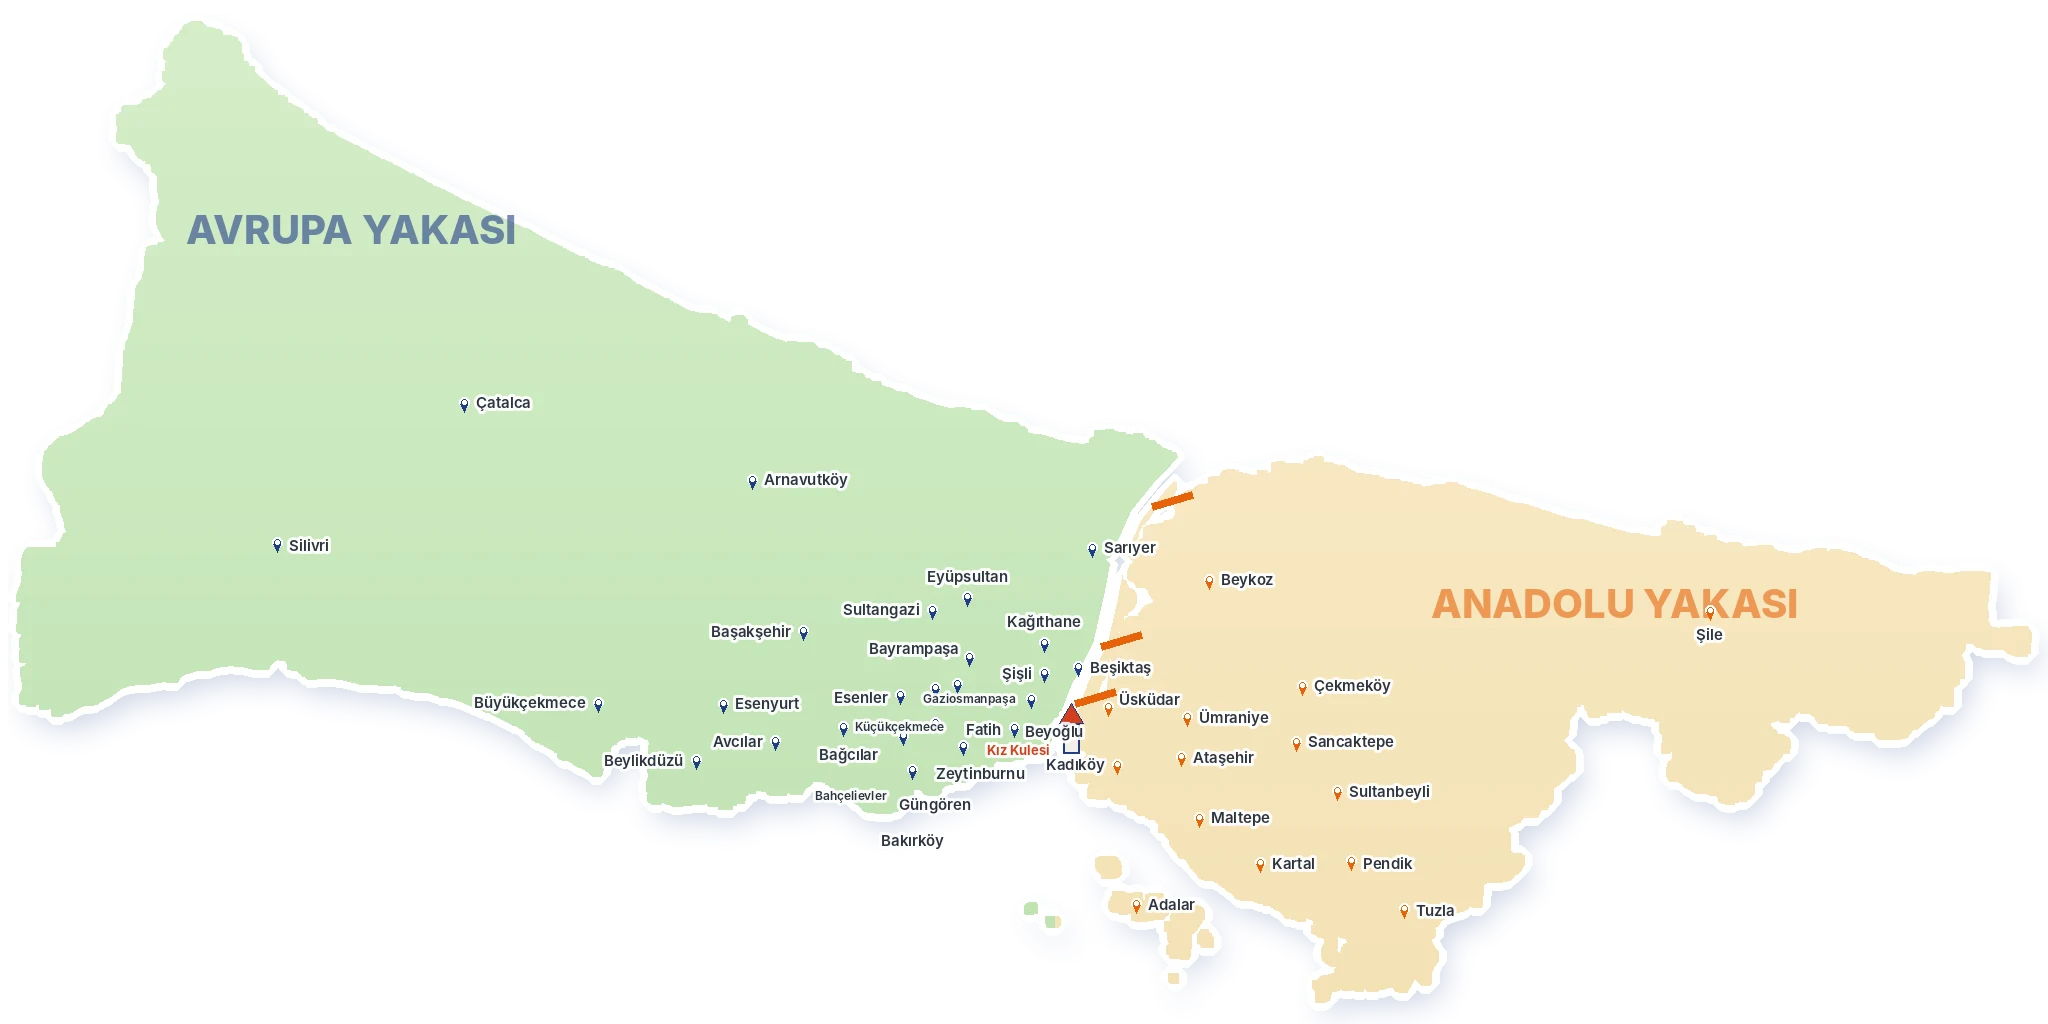
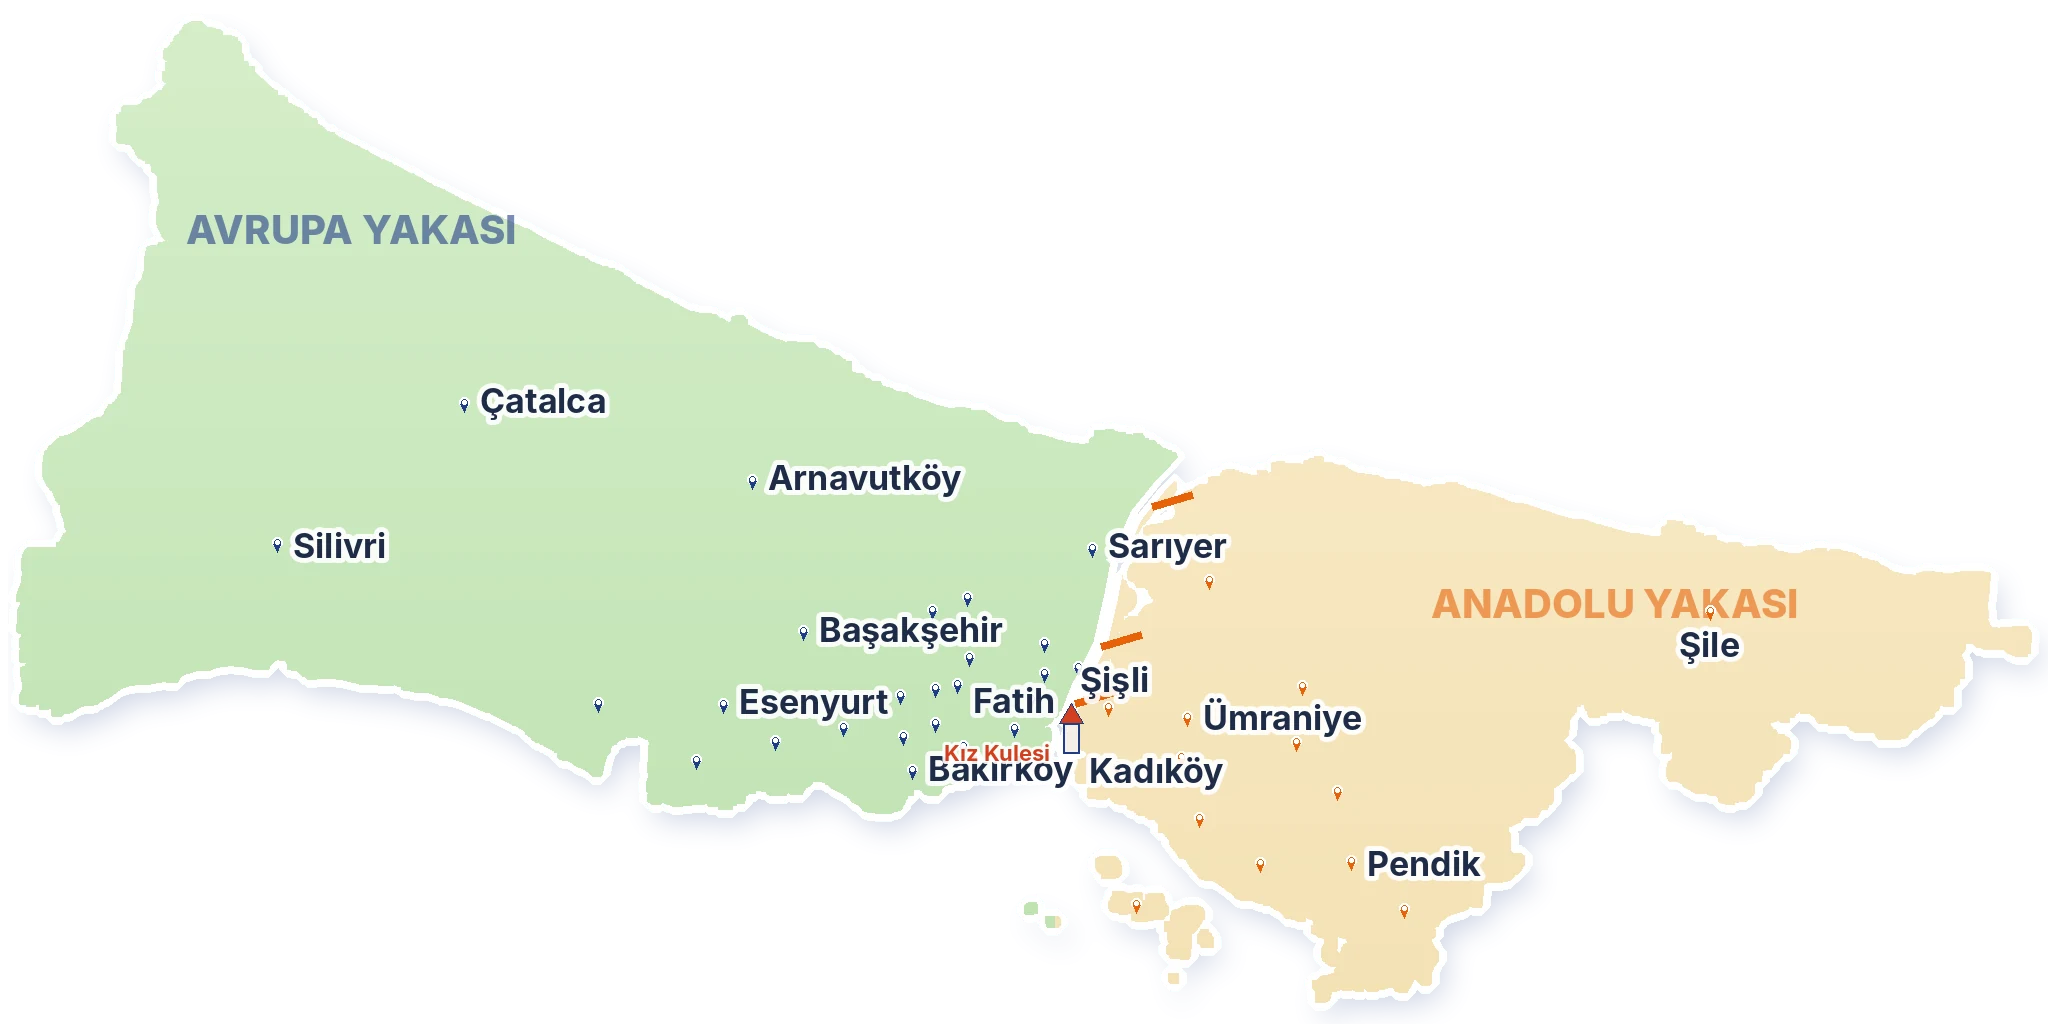
Ana ekran: kutucuklar iki yakaya dağılıp 8 ilçenin konum işaretine gidiyor; 14 ana ilçe adı büyük
Claude-Session: https://claude.ai/code/session_01DmkpUBmMrpxzYW5xoNeeop

diff --git a/ar/index.html b/ar/index.html
@@ -327,4 +327,4 @@
 <a href="https://wa.me/905515315234?text=%D9%85%D8%B1%D8%AD%D8%A8%D9%8B%D8%A7%D8%8C%20%D8%A3%D8%B1%D9%8A%D8%AF%20%D8%B7%D9%84%D8%A8%20%D9%85%D9%86%D8%AF%D9%88%D8%A8%20%D8%AA%D9%88%D8%B5%D9%8A%D9%84." target="_blank" rel="nofollow noopener" data-ev="whatsapp_bar"><svg viewBox="0 0 24 24" fill="none" stroke="currentColor" stroke-width="2" stroke-linecap="round" stroke-linejoin="round"><circle cx="12" cy="12" r="9"/><path d="M8 12l3 3 5-6"/></svg>اطلب مندوبًا</a>
 <a href="#hesapla"><svg viewBox="0 0 24 24" fill="none" stroke="currentColor" stroke-width="2" stroke-linecap="round" stroke-linejoin="round"><rect x="5" y="3" width="14" height="18" rx="2"/><path d="M9 8h6M9 12h2M13 12h2M9 16h2M13 16h2"/></svg>احسب السعر</a>
 <a href="tel:+905515315234" data-ev="call_bar"><svg viewBox="0 0 24 24" fill="none" stroke="currentColor" stroke-width="2" stroke-linecap="round" stroke-linejoin="round"><path d="M5 4h4l2 5-2.5 1.5a11 11 0 0 0 5 5L15 13l5 2v4a2 2 0 0 1-2 2A16 16 0 0 1 3 6a2 2 0 0 1 2-2z"/></svg>اتصل</a></nav>
-<button type="button" class="ecob" id="fxCalm" aria-pressed="false" aria-label="وضع توفير الطاقة" title="وضع توفير الطاقة"><span class="bt"><i></i><i></i><i></i></span><b>توفير</b></button><a class="fab" href="https://wa.me/905515315234?text=%D9%85%D8%B1%D8%AD%D8%A8%D9%8B%D8%A7%D8%8C%20%D8%A3%D8%B1%D9%8A%D8%AF%20%D8%B7%D9%84%D8%A8%20%D9%85%D9%86%D8%AF%D9%88%D8%A8%20%D8%AA%D9%88%D8%B5%D9%8A%D9%84." target="_blank" rel="nofollow noopener" aria-label="راسلنا على واتساب" data-ev="whatsapp_fab"><svg viewBox="0 0 24 24" fill="currentColor" aria-hidden="true"><path d="M12 2a10 10 0 0 0-8.6 15.1L2 22l5-1.3A10 10 0 1 0 12 2zm5.2 14.1c-.2.6-1.3 1.2-1.8 1.2-.5.1-1 .2-3.3-.7-2.8-1.1-4.6-4-4.7-4.2-.1-.2-1.1-1.5-1.1-2.8 0-1.3.7-1.9.9-2.2.2-.3.5-.3.7-.3h.5c.2 0 .4 0 .6.5l.8 2c.1.2.1.4 0 .5l-.4.6c-.1.2-.3.3-.1.6.2.3.8 1.3 1.7 2.1 1.2 1 2.100 1.300 2.400 1.500.3.1.5.1.6-.1l.9-1.100c.2-.2.4-.2.6-.1l1.900.9c.3.1.5.2.5.3.1.2.1.8-.1 1.400z"/></svg></a><a class="fab fabc" href="tel:+905515315234" aria-label="اتصل الآن" data-ev="call_fab"><svg viewBox="0 0 24 24" fill="none" stroke="currentColor" stroke-width="2" stroke-linecap="round" stroke-linejoin="round"><path d="M22 16.9v3a2 2 0 0 1-2.2 2 19.8 19.8 0 0 1-8.6-3.1 19.5 19.5 0 0 1-6-6A19.8 19.8 0 0 1 2.1 4.2 2 2 0 0 1 4.1 2h3a2 2 0 0 1 2 1.7c.1 1 .4 1.9.7 2.8a2 2 0 0 1-.5 2.1L8.1 9.9a16 16 0 0 0 6 6l1.3-1.3a2 2 0 0 1 2.1-.4c.9.3 1.8.6 2.8.7a2 2 0 0 1 1.7 2z"/></svg></a><script src="/assets/config.js?v=2517ce41" defer></script><script src="/assets/app.js?v=d55bec74" defer></script><script src="/assets/film.js?v=8a0c41d4" defer></script></body></html>
+<button type="button" class="ecob" id="fxCalm" aria-pressed="false" aria-label="وضع توفير الطاقة" title="وضع توفير الطاقة"><span class="bt"><i></i><i></i><i></i></span><b>توفير</b></button><a class="fab" href="https://wa.me/905515315234?text=%D9%85%D8%B1%D8%AD%D8%A8%D9%8B%D8%A7%D8%8C%20%D8%A3%D8%B1%D9%8A%D8%AF%20%D8%B7%D9%84%D8%A8%20%D9%85%D9%86%D8%AF%D9%88%D8%A8%20%D8%AA%D9%88%D8%B5%D9%8A%D9%84." target="_blank" rel="nofollow noopener" aria-label="راسلنا على واتساب" data-ev="whatsapp_fab"><svg viewBox="0 0 24 24" fill="currentColor" aria-hidden="true"><path d="M12 2a10 10 0 0 0-8.6 15.1L2 22l5-1.3A10 10 0 1 0 12 2zm5.2 14.1c-.2.6-1.3 1.2-1.8 1.2-.5.1-1 .2-3.3-.7-2.8-1.1-4.6-4-4.7-4.2-.1-.2-1.1-1.5-1.1-2.8 0-1.3.7-1.9.9-2.2.2-.3.5-.3.7-.3h.5c.2 0 .4 0 .6.5l.8 2c.1.2.1.4 0 .5l-.4.6c-.1.2-.3.3-.1.6.2.3.8 1.3 1.7 2.1 1.2 1 2.100 1.300 2.400 1.500.3.1.5.1.6-.1l.9-1.100c.2-.2.4-.2.6-.1l1.900.9c.3.1.5.2.5.3.1.2.1.8-.1 1.400z"/></svg></a><a class="fab fabc" href="tel:+905515315234" aria-label="اتصل الآن" data-ev="call_fab"><svg viewBox="0 0 24 24" fill="none" stroke="currentColor" stroke-width="2" stroke-linecap="round" stroke-linejoin="round"><path d="M22 16.9v3a2 2 0 0 1-2.2 2 19.8 19.8 0 0 1-8.6-3.1 19.5 19.5 0 0 1-6-6A19.8 19.8 0 0 1 2.1 4.2 2 2 0 0 1 4.1 2h3a2 2 0 0 1 2 1.7c.1 1 .4 1.9.7 2.8a2 2 0 0 1-.5 2.1L8.1 9.9a16 16 0 0 0 6 6l1.3-1.3a2 2 0 0 1 2.1-.4c.9.3 1.8.6 2.8.7a2 2 0 0 1 1.7 2z"/></svg></a><script src="/assets/config.js?v=2517ce41" defer></script><script src="/assets/app.js?v=d55bec74" defer></script><script src="/assets/film.js?v=9a4b680a" defer></script></body></html>

diff --git a/index.html b/index.html
@@ -330,4 +330,4 @@
 <a href="https://wa.me/905515315234?text=Merhaba%2C%20kurye%20%C3%A7a%C4%9F%C4%B1rmak%20istiyorum." target="_blank" rel="nofollow noopener" data-ev="whatsapp_bar"><svg viewBox="0 0 24 24" fill="none" stroke="currentColor" stroke-width="2" stroke-linecap="round" stroke-linejoin="round"><circle cx="12" cy="12" r="9"/><path d="M8 12l3 3 5-6"/></svg>Kurye Çağır</a>
 <a href="#hesapla"><svg viewBox="0 0 24 24" fill="none" stroke="currentColor" stroke-width="2" stroke-linecap="round" stroke-linejoin="round"><rect x="5" y="3" width="14" height="18" rx="2"/><path d="M9 8h6M9 12h2M13 12h2M9 16h2M13 16h2"/></svg>Fiyat Hesapla</a>
 <a href="tel:+905515315234" data-ev="call_bar"><svg viewBox="0 0 24 24" fill="none" stroke="currentColor" stroke-width="2" stroke-linecap="round" stroke-linejoin="round"><path d="M5 4h4l2 5-2.5 1.5a11 11 0 0 0 5 5L15 13l5 2v4a2 2 0 0 1-2 2A16 16 0 0 1 3 6a2 2 0 0 1 2-2z"/></svg>Ara</a></nav>
-<button type="button" class="ecob" id="fxCalm" aria-pressed="false" aria-label="Tasarruf modu" title="Tasarruf modu"><span class="bt"><i></i><i></i><i></i></span><b>Tasarruf</b></button><a class="fab" href="https://wa.me/905515315234?text=Merhaba%2C%20kurye%20%C3%A7a%C4%9F%C4%B1rmak%20istiyorum." target="_blank" rel="nofollow noopener" aria-label="WhatsApp ile yaz" data-ev="whatsapp_fab"><svg viewBox="0 0 24 24" fill="currentColor" aria-hidden="true"><path d="M12 2a10 10 0 0 0-8.6 15.1L2 22l5-1.3A10 10 0 1 0 12 2zm5.2 14.1c-.2.6-1.3 1.2-1.8 1.2-.5.1-1 .2-3.3-.7-2.8-1.1-4.6-4-4.7-4.2-.1-.2-1.1-1.5-1.1-2.8 0-1.3.7-1.9.9-2.2.2-.3.5-.3.7-.3h.5c.2 0 .4 0 .6.5l.8 2c.1.2.1.4 0 .5l-.4.6c-.1.2-.3.3-.1.6.2.3.8 1.3 1.7 2.1 1.2 1 2.100 1.300 2.400 1.500.3.1.5.1.6-.1l.9-1.100c.2-.2.4-.2.6-.1l1.900.9c.3.1.5.2.5.3.1.2.1.8-.1 1.400z"/></svg></a><a class="fab fabc" href="tel:+905515315234" aria-label="Hemen ara" data-ev="call_fab"><svg viewBox="0 0 24 24" fill="none" stroke="currentColor" stroke-width="2" stroke-linecap="round" stroke-linejoin="round"><path d="M22 16.9v3a2 2 0 0 1-2.2 2 19.8 19.8 0 0 1-8.6-3.1 19.5 19.5 0 0 1-6-6A19.8 19.8 0 0 1 2.1 4.2 2 2 0 0 1 4.1 2h3a2 2 0 0 1 2 1.7c.1 1 .4 1.9.7 2.8a2 2 0 0 1-.5 2.1L8.1 9.9a16 16 0 0 0 6 6l1.3-1.3a2 2 0 0 1 2.1-.4c.9.3 1.8.6 2.8.7a2 2 0 0 1 1.7 2z"/></svg></a><script src="/assets/config.js?v=2517ce41" defer></script><script src="/assets/app.js?v=d55bec74" defer></script><script src="/assets/film.js?v=8a0c41d4" defer></script><script src="/assets/ilcesec.js?v=34f25bab" defer></script><script src="/assets/nobet.js" defer></script><script src="/assets/zones.js?v=fbd403dd" defer></script></body></html>
+<button type="button" class="ecob" id="fxCalm" aria-pressed="false" aria-label="Tasarruf modu" title="Tasarruf modu"><span class="bt"><i></i><i></i><i></i></span><b>Tasarruf</b></button><a class="fab" href="https://wa.me/905515315234?text=Merhaba%2C%20kurye%20%C3%A7a%C4%9F%C4%B1rmak%20istiyorum." target="_blank" rel="nofollow noopener" aria-label="WhatsApp ile yaz" data-ev="whatsapp_fab"><svg viewBox="0 0 24 24" fill="currentColor" aria-hidden="true"><path d="M12 2a10 10 0 0 0-8.6 15.1L2 22l5-1.3A10 10 0 1 0 12 2zm5.2 14.1c-.2.6-1.3 1.2-1.8 1.2-.5.1-1 .2-3.3-.7-2.8-1.1-4.6-4-4.7-4.2-.1-.2-1.1-1.5-1.1-2.8 0-1.3.7-1.9.9-2.2.2-.3.5-.3.7-.3h.5c.2 0 .4 0 .6.5l.8 2c.1.2.1.4 0 .5l-.4.6c-.1.2-.3.3-.1.6.2.3.8 1.3 1.7 2.1 1.2 1 2.100 1.300 2.400 1.500.3.1.5.1.6-.1l.9-1.100c.2-.2.4-.2.6-.1l1.900.9c.3.1.5.2.5.3.1.2.1.8-.1 1.400z"/></svg></a><a class="fab fabc" href="tel:+905515315234" aria-label="Hemen ara" data-ev="call_fab"><svg viewBox="0 0 24 24" fill="none" stroke="currentColor" stroke-width="2" stroke-linecap="round" stroke-linejoin="round"><path d="M22 16.9v3a2 2 0 0 1-2.2 2 19.8 19.8 0 0 1-8.6-3.1 19.5 19.5 0 0 1-6-6A19.8 19.8 0 0 1 2.1 4.2 2 2 0 0 1 4.1 2h3a2 2 0 0 1 2 1.7c.1 1 .4 1.9.7 2.8a2 2 0 0 1-.5 2.1L8.1 9.9a16 16 0 0 0 6 6l1.3-1.3a2 2 0 0 1 2.1-.4c.9.3 1.8.6 2.8.7a2 2 0 0 1 1.7 2z"/></svg></a><script src="/assets/config.js?v=2517ce41" defer></script><script src="/assets/app.js?v=d55bec74" defer></script><script src="/assets/film.js?v=9a4b680a" defer></script><script src="/assets/ilcesec.js?v=34f25bab" defer></script><script src="/assets/nobet.js" defer></script><script src="/assets/zones.js?v=fbd403dd" defer></script></body></html>

diff --git a/assets/film.js b/assets/film.js
@@ -67,20 +67,25 @@ function build(s,cam,fx){
  world(s,'#8fd0f5','#eef8ff',false);
  // Sade İstanbul haritası (hazır görsel, sabit). 1 birim lon=35.6, lat=47; arena merkezi 28.66E/41.17N
  var GL0=27.9513956,GL1=29.978148,GB0=40.7827042,GB1=41.6050271,KO=17.5,KL=23.1,MW=(GL1-GL0)*KO,MH=(GB1-GB0)*KL;
- var ft=new T.TextureLoader().load('/assets/img/istanbul-sade.webp?v=2');ft.anisotropy=4;
+ var ft=new T.TextureLoader().load('/assets/img/istanbul-sade.webp?v=3');ft.anisotropy=4;
  var fl=new T.Mesh(new T.PlaneGeometry(MW,MH),new T.MeshBasicMaterial({map:ft,alphaTest:.5}));fl.rotation.x=-PI/2;fl.position.set(((GL0+GL1)/2-28.58)*KO,.01,-(((GB0+GB1)/2)-41.16)*KL);s.add(fl);
- var PA=[.5,2.1,3.7,5.3],PR=7,SZ=.4,pins=PA.map(function(a,i){var p=pin(i%2?NAVY:ORG);p.position.set(Math.cos(a)*PR,0,Math.sin(a)*PR*SZ);s.add(p);return p});
+ var HUB=V(7,0,1.8),BW=V(7.6,0,2.45),BE=V(8.4,0,2.5);
+ // 8 kutucuk 8 ilçeye: 4 Avrupa, 4 Anadolu (köprüden geçerek)
+ var TG=[V(-6.2,0,0),V(8.35,0,4.08),V(2.03,0,-1.2),V(12.4,0,5.87),V(2.92,0,1.59),V(18.6,0,1.22),V(4.8,0,4.19),V(9.56,0,3.2)],ANA=[0,1,0,1,0,1,0,1];
+ var PATHS=TG.map(function(g,i){return ANA[i]?[BW,BE,g]:[g]});
+ var pins=TG.map(function(g,i){var p=pin(ANA[i]?ORG:NAVY);p.position.copy(g);s.add(p);return p});
  // harfler + kırılan kutu panelleri + logo harf yüzleri
  var L=makeLetters(s),env=L.map(function(l){var e=envelope();l.userData.carry.add(e);return e});
  var GL=[],SH=[];L.forEach(function(l,i){var gm=new T.Mesh(new T.PlaneGeometry(1.25,1.56),new T.MeshBasicMaterial({map:glyphTex(WORD[i],i),transparent:true,depthWrite:false}));gm.visible=false;s.add(gm);GL.push(gm);
   var shards=[];var cm=M(LCOL[i],{roughness:.4,side:T.DoubleSide});[[0,0,.28,0],[0,0,-.28,PI],[.5,0,0,PI/2],[-.5,0,0,-PI/2],[0,.7,0,'t'],[0,-.7,0,'b']].forEach(function(f){var g=f[3]==='t'||f[3]==='b'?new T.PlaneGeometry(1,.55):(f[3]===0||f[3]===PI?new T.PlaneGeometry(1,1.4):new T.PlaneGeometry(.55,1.4));var m=new T.Mesh(g,cm);m.visible=false;s.add(m);shards.push({m:m,o:V(f[0],f[1],f[2]),r:f[3]})});SH.push(shards)});
- var pairs=[[0,3],[1,2],[4,5],[6,7]],start=L.map(function(l,i){var a=i/8*PI*2;return V(Math.cos(a)*2.6,0,Math.sin(a)*2.6*SZ)});
+ var start=L.map(function(l,i){var a=i/8*PI*2;return V(HUB.x+Math.cos(a)*1.3,0,HUB.z+Math.sin(a)*1.3)});
  var conf=confetti(s,V(0,1,3),10.9,160),conf2=confetti(s,V(0,2,3.2),12.7,180);
- function arenaPos(i,t){var p=pairs.findIndex(function(pr){return pr.indexOf(i)>=0}),side=pairs[p].indexOf(i),pa=PA[p],a0=i/8*PI*2;
-  if(t<1.2){var u=seg(t,.1+i*.05,1.1);return{p:arcV(V(0,0,0),start[i],u,2.2),f:faceTo(V(0,0,0),start[i]),run:0,bump:0}}
-  var u2=seg(t,1.4,7.4),ang=a0+(pa-a0)*u2,rad=2.6+(PR-1.1-2.6)*u2,bump=Math.exp(-Math.pow((u2-.5)/.06,2));
-  var off=(side?1:-1)*(.75-.6*bump);var pos=V(Math.cos(ang)*rad,0,Math.sin(ang)*rad).add(V(-Math.sin(ang),0,Math.cos(ang)).multiplyScalar(off));pos.y+=bump*.4;pos.z*=SZ;
-  return{p:pos,f:faceTo(pos,V(Math.cos(pa)*PR,0,Math.sin(pa)*PR*SZ)),run:u2<1?1:0,bump:bump*(side?-1:1)}}
+ function arenaPos(i,t){
+  if(t<1.2){var u=seg(t,.1+i*.05,1.1);return{p:arcV(HUB,start[i],u,2.2),f:faceTo(HUB,start[i]),run:0,bump:0}}
+  var pts=[start[i]].concat(PATHS[i]),ln=[],tot=0;for(var k=1;k<pts.length;k++){var d=pts[k].distanceTo(pts[k-1]);ln.push(d);tot+=d}
+  var u2=seg(t,1.4+i*.08,6.9+i*.06),e=u2*u2*(3-2*u2),dd=e*tot,j=0;while(j<ln.length-1&&dd>ln[j]){dd-=ln[j];j++}
+  var a0=pts[j],a1=pts[j+1],pos=a0.clone().lerp(a1,ln[j]?Math.min(1,dd/ln[j]):1);
+  return{p:pos,f:faceTo(a0,a1),run:u2>0&&u2<1?1:0,bump:0}}
  return function(t){
   L.forEach(function(l,i){var ud=l.userData;l.visible=t<12.7;ud.body.visible=true;l.scale.setScalar(1);sit(l,false);ud.body.rotation.z=0;cheer(l,t,0);ud.arms.forEach(function(g){g.visible=true});
    if(t<8.6){var A=arenaPos(i,t);l.position.copy(A.p);l.rotation.y=A.f;run(l,t,A.run);ud.body.rotation.z=A.bump*.35;env[i].visible=t<7.5;if(t>7.4){cheer(l,t,1);l.position.y=Math.abs(Math.sin((t-7.4)*PI*2))*.45}}

diff --git a/en/index.html b/en/index.html
@@ -327,4 +327,4 @@
 <a href="https://wa.me/905515315234?text=Hello%2C%20I%20would%20like%20to%20call%20a%20courier." target="_blank" rel="nofollow noopener" data-ev="whatsapp_bar"><svg viewBox="0 0 24 24" fill="none" stroke="currentColor" stroke-width="2" stroke-linecap="round" stroke-linejoin="round"><circle cx="12" cy="12" r="9"/><path d="M8 12l3 3 5-6"/></svg>Call a courier</a>
 <a href="#hesapla"><svg viewBox="0 0 24 24" fill="none" stroke="currentColor" stroke-width="2" stroke-linecap="round" stroke-linejoin="round"><rect x="5" y="3" width="14" height="18" rx="2"/><path d="M9 8h6M9 12h2M13 12h2M9 16h2M13 16h2"/></svg>Calculate price</a>
 <a href="tel:+905515315234" data-ev="call_bar"><svg viewBox="0 0 24 24" fill="none" stroke="currentColor" stroke-width="2" stroke-linecap="round" stroke-linejoin="round"><path d="M5 4h4l2 5-2.5 1.5a11 11 0 0 0 5 5L15 13l5 2v4a2 2 0 0 1-2 2A16 16 0 0 1 3 6a2 2 0 0 1 2-2z"/></svg>Call</a></nav>
-<button type="button" class="ecob" id="fxCalm" aria-pressed="false" aria-label="Power saving mode" title="Power saving mode"><span class="bt"><i></i><i></i><i></i></span><b>Saver</b></button><a class="fab" href="https://wa.me/905515315234?text=Hello%2C%20I%20would%20like%20to%20call%20a%20courier." target="_blank" rel="nofollow noopener" aria-label="Write on WhatsApp" data-ev="whatsapp_fab"><svg viewBox="0 0 24 24" fill="currentColor" aria-hidden="true"><path d="M12 2a10 10 0 0 0-8.6 15.1L2 22l5-1.3A10 10 0 1 0 12 2zm5.2 14.1c-.2.6-1.3 1.2-1.8 1.2-.5.1-1 .2-3.3-.7-2.8-1.1-4.6-4-4.7-4.2-.1-.2-1.1-1.5-1.1-2.8 0-1.3.7-1.9.9-2.2.2-.3.5-.3.7-.3h.5c.2 0 .4 0 .6.5l.8 2c.1.2.1.4 0 .5l-.4.6c-.1.2-.3.3-.1.6.2.3.8 1.3 1.7 2.1 1.2 1 2.100 1.300 2.400 1.500.3.1.5.1.6-.1l.9-1.100c.2-.2.4-.2.6-.1l1.900.9c.3.1.5.2.5.3.1.2.1.8-.1 1.400z"/></svg></a><a class="fab fabc" href="tel:+905515315234" aria-label="Call now" data-ev="call_fab"><svg viewBox="0 0 24 24" fill="none" stroke="currentColor" stroke-width="2" stroke-linecap="round" stroke-linejoin="round"><path d="M22 16.9v3a2 2 0 0 1-2.2 2 19.8 19.8 0 0 1-8.6-3.1 19.5 19.5 0 0 1-6-6A19.8 19.8 0 0 1 2.1 4.2 2 2 0 0 1 4.1 2h3a2 2 0 0 1 2 1.7c.1 1 .4 1.9.7 2.8a2 2 0 0 1-.5 2.1L8.1 9.9a16 16 0 0 0 6 6l1.3-1.3a2 2 0 0 1 2.1-.4c.9.3 1.8.6 2.8.7a2 2 0 0 1 1.7 2z"/></svg></a><script src="/assets/config.js?v=2517ce41" defer></script><script src="/assets/app.js?v=d55bec74" defer></script><script src="/assets/film.js?v=8a0c41d4" defer></script></body></html>
+<button type="button" class="ecob" id="fxCalm" aria-pressed="false" aria-label="Power saving mode" title="Power saving mode"><span class="bt"><i></i><i></i><i></i></span><b>Saver</b></button><a class="fab" href="https://wa.me/905515315234?text=Hello%2C%20I%20would%20like%20to%20call%20a%20courier." target="_blank" rel="nofollow noopener" aria-label="Write on WhatsApp" data-ev="whatsapp_fab"><svg viewBox="0 0 24 24" fill="currentColor" aria-hidden="true"><path d="M12 2a10 10 0 0 0-8.6 15.1L2 22l5-1.3A10 10 0 1 0 12 2zm5.2 14.1c-.2.6-1.3 1.2-1.8 1.2-.5.1-1 .2-3.3-.7-2.8-1.1-4.6-4-4.7-4.2-.1-.2-1.1-1.5-1.1-2.8 0-1.3.7-1.9.9-2.2.2-.3.5-.3.7-.3h.5c.2 0 .4 0 .6.5l.8 2c.1.2.1.4 0 .5l-.4.6c-.1.2-.3.3-.1.6.2.3.8 1.3 1.7 2.1 1.2 1 2.100 1.300 2.400 1.500.3.1.5.1.6-.1l.9-1.100c.2-.2.4-.2.6-.1l1.900.9c.3.1.5.2.5.3.1.2.1.8-.1 1.400z"/></svg></a><a class="fab fabc" href="tel:+905515315234" aria-label="Call now" data-ev="call_fab"><svg viewBox="0 0 24 24" fill="none" stroke="currentColor" stroke-width="2" stroke-linecap="round" stroke-linejoin="round"><path d="M22 16.9v3a2 2 0 0 1-2.2 2 19.8 19.8 0 0 1-8.6-3.1 19.5 19.5 0 0 1-6-6A19.8 19.8 0 0 1 2.1 4.2 2 2 0 0 1 4.1 2h3a2 2 0 0 1 2 1.7c.1 1 .4 1.9.7 2.8a2 2 0 0 1-.5 2.1L8.1 9.9a16 16 0 0 0 6 6l1.3-1.3a2 2 0 0 1 2.1-.4c.9.3 1.8.6 2.8.7a2 2 0 0 1 1.7 2z"/></svg></a><script src="/assets/config.js?v=2517ce41" defer></script><script src="/assets/app.js?v=d55bec74" defer></script><script src="/assets/film.js?v=9a4b680a" defer></script></body></html>
